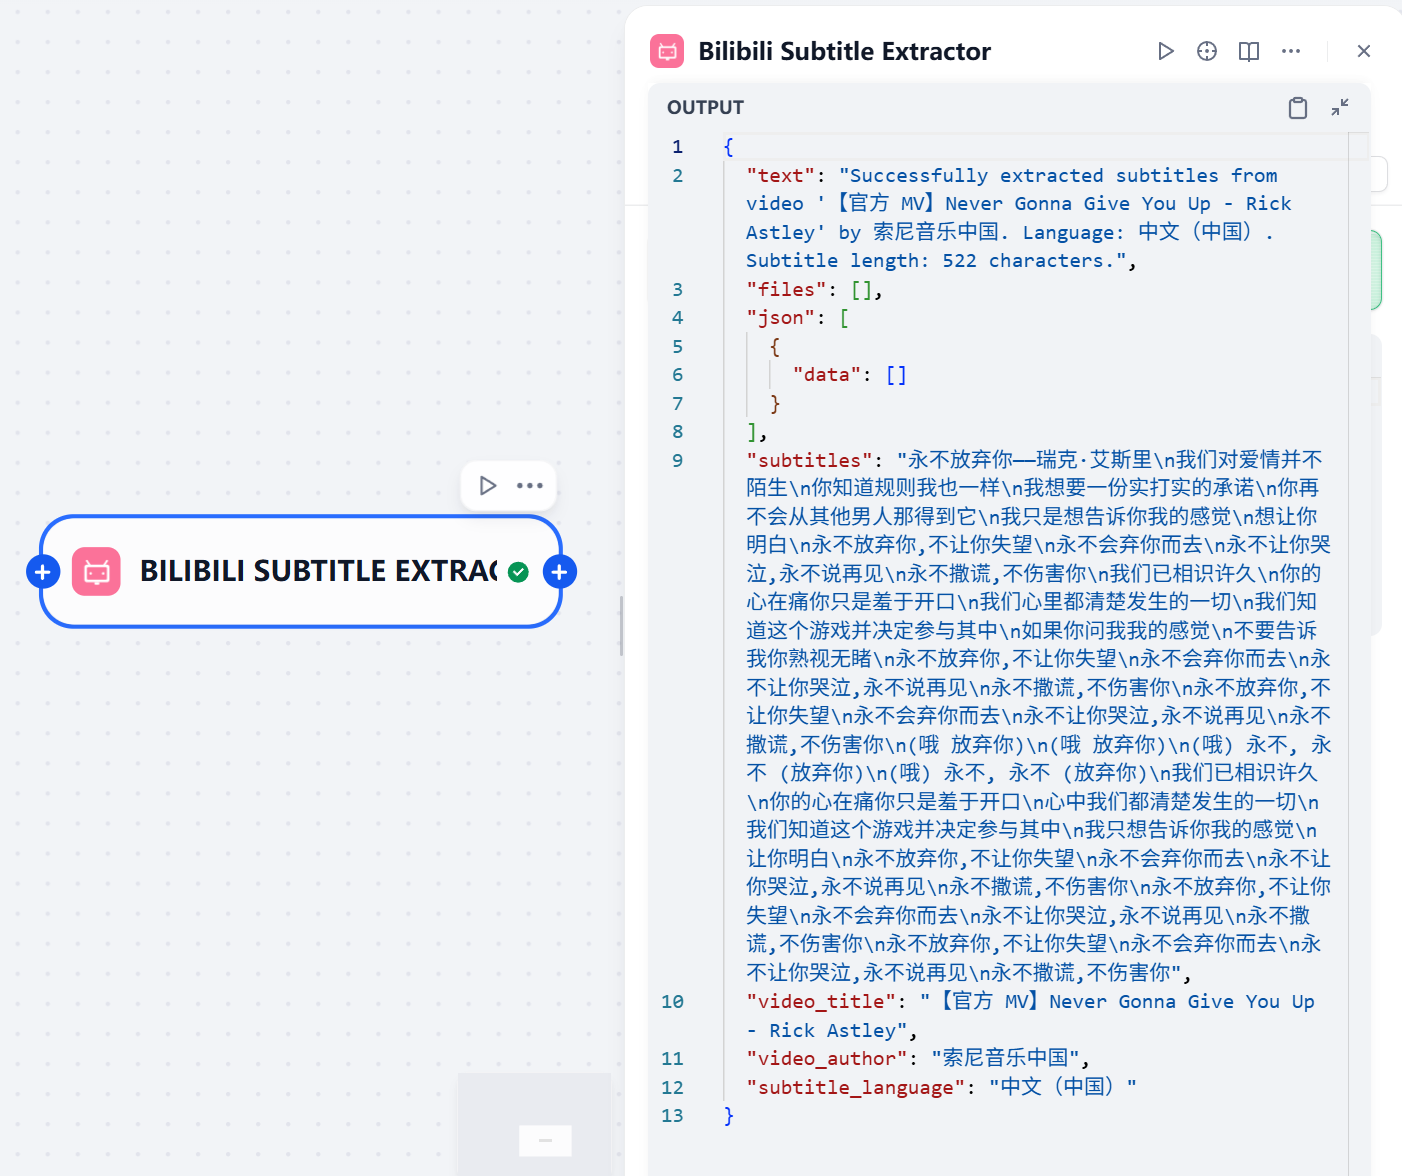
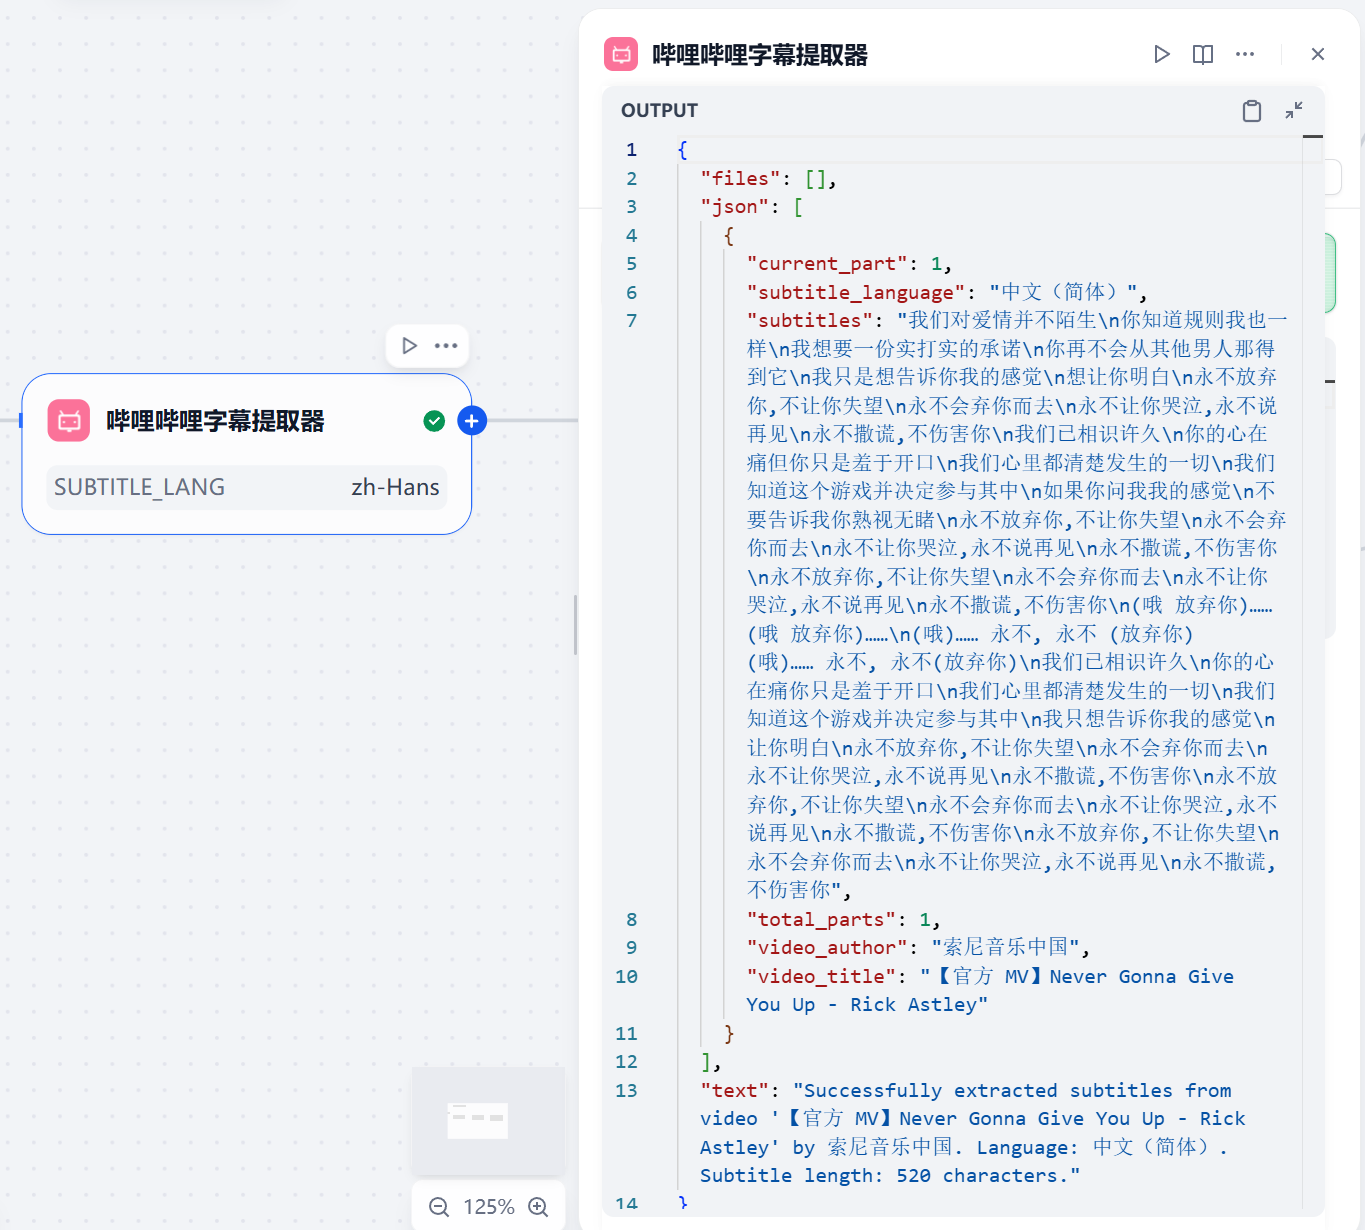
feat: 支持多语言字幕和分P选择并优化输出格式
- 在工具配置中添加 total_parts 和 current_part 输出字段
- 更新插件描述以明确支持多分P和多语言
- 在 README 中补充可选语言选择和分P设置说明
- 将工具输出从多个变量消息改为单一 JSON 消息，包含新增字段
- 更新插件版本至 0.0.2

diff --git a/tools/bilibili_subtitle_plugin.py b/tools/bilibili_subtitle_plugin.py
@@ -101,10 +101,14 @@ class BilibiliSubtitlePluginTool(Tool):
             # Check used_part
             if total_parts and (used_part < 1 or used_part > total_parts):
                 note = f"Requested part {part} is out of range (total {total_parts}). Please select a part between 1 and {total_parts}."
-                yield self.create_variable_message("subtitles", "")
-                yield self.create_variable_message("video_title", video_title)
-                yield self.create_variable_message("video_author", video_author)
-                yield self.create_variable_message("subtitle_language", "")
+                yield self.create_json_message({
+                    "subtitles": "",
+                    "video_title": video_title,
+                    "video_author": video_author,
+                    "subtitle_language": "",
+                    "total_parts": total_parts,
+                    "current_part": used_part
+                })
                 yield self.create_text_message(note)
                 return
             # Get cid
@@ -133,15 +137,17 @@ class BilibiliSubtitlePluginTool(Tool):
             
             logger.info(f"Subtitle content processed: {len(subtitle_text)} characters")
             
-            # Return result using variable messages for declared output schema
+            # Return result in JSON format
             logger.info("Preparing subtitle results for response")
             logger.info(f"Subtitles successfully retrieved for video '{video_title}'")
-            
-            # Return each declared output variable separately
-            yield self.create_variable_message("subtitles", subtitle_text)
-            yield self.create_variable_message("video_title", video_title)
-            yield self.create_variable_message("video_author", video_author)
-            yield self.create_variable_message("subtitle_language", subtitle_language)
+            yield self.create_json_message({
+                "subtitles": subtitle_text,
+                "video_title": video_title,
+                "video_author": video_author,
+                "subtitle_language": subtitle_language,
+                "total_parts": total_parts,
+                "current_part": used_part
+            })
             
             # Also provide a summary text message for user
             summary_text = (
@@ -159,11 +165,15 @@ class BilibiliSubtitlePluginTool(Tool):
             logger.error(f"Failed to get subtitles: {error_type} - {error_msg}")
             logger.error(f"Exception traceback: \n{error_traceback}")
             
-            # Return empty output variables for declared output schema
-            yield self.create_variable_message("subtitles", "")
-            yield self.create_variable_message("video_title", "")
-            yield self.create_variable_message("video_author", "")
-            yield self.create_variable_message("subtitle_language", "")
+            # Return empty output as JSON
+            yield self.create_json_message({
+                "subtitles": "",
+                "video_title": "",
+                "video_author": "",
+                "subtitle_language": "",
+                "total_parts": 0,
+                "current_part": 0
+            })
             
             # Return error message to user
             yield self.create_text_message(f"Failed to get subtitles: {error_type} - {error_msg}")

diff --git a/README.md b/README.md
@@ -9,6 +9,8 @@ This is a Dify plugin for extracting subtitles from Bilibili videos. By providin
 - Extract Bilibili video subtitles using video ID
 - Return basic video information such as title and author
 - Support multiple video ID formats including BV and AV numbers
+- Optional subtitle language selection (dropdown)
+- Optional part selection for multi-part videos
 - Simple and user-friendly interface design
 
 ## Prerequisites
@@ -46,13 +48,23 @@ Follow the steps shown in the image above to obtain Cookie information:
 <img src="_assets/填写凭证.png" alt="Credential Configuration" style="zoom:50%;" />
 3. Enter a Bilibili video ID, for example: ``BV1GJ411x7h7``
 <img src="_assets/填入视频ID.png" alt="Enter Video ID" style="zoom: 50%;" />
-4. The plugin will automatically extract and return subtitle content
+4. (Optional) Select the subtitle language from the dropdown
+5. (Optional) Set the part number if the video has multiple parts
+6. The plugin will automatically extract and return subtitle content
 <img src="_assets/输出.png" alt="Output Example" style="zoom: 50%;" />
 
 ## Notes
 
 - Can only extract subtitles from videos that already have subtitles; does not support automatic subtitle generation
-- Currently defaults to Chinese subtitles, or the first available subtitle if Chinese is not available
+- If subtitle language is not selected, the plugin prefers Chinese subtitles, or falls back to the first available subtitle
+- Supported subtitle language options (dropdown):
+  - zh-Hans (Chinese)
+  - en-US (English)
+  - ja (Japanese)
+  - ko (Korean)
+  - de-DE (German)
+  - ru (Russian)
+- If the provided part number is out of range, the plugin will return an English prompt without fetching subtitles
 - Requires valid Bilibili account Cookie information
 - Video ID must be a valid Bilibili video ID
 - Supports multiple formats including BV and AV numbers
